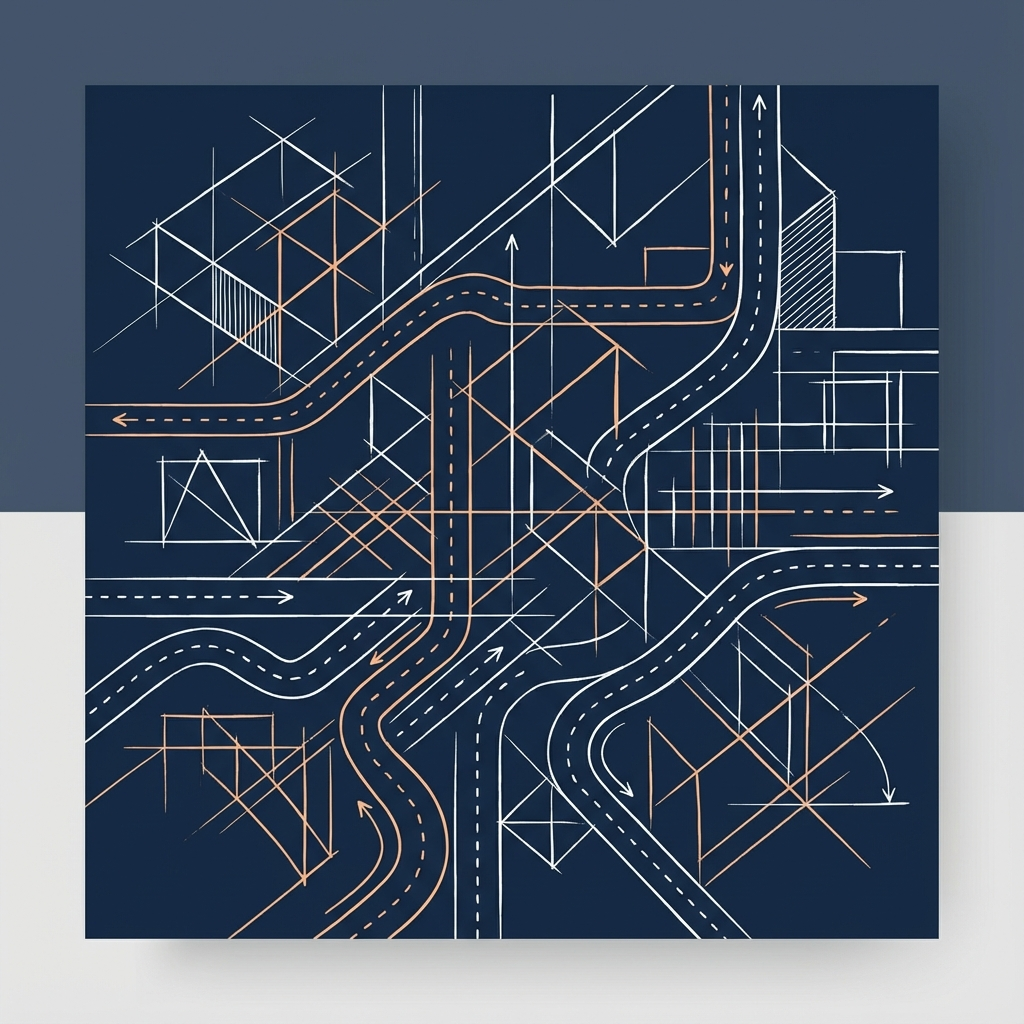
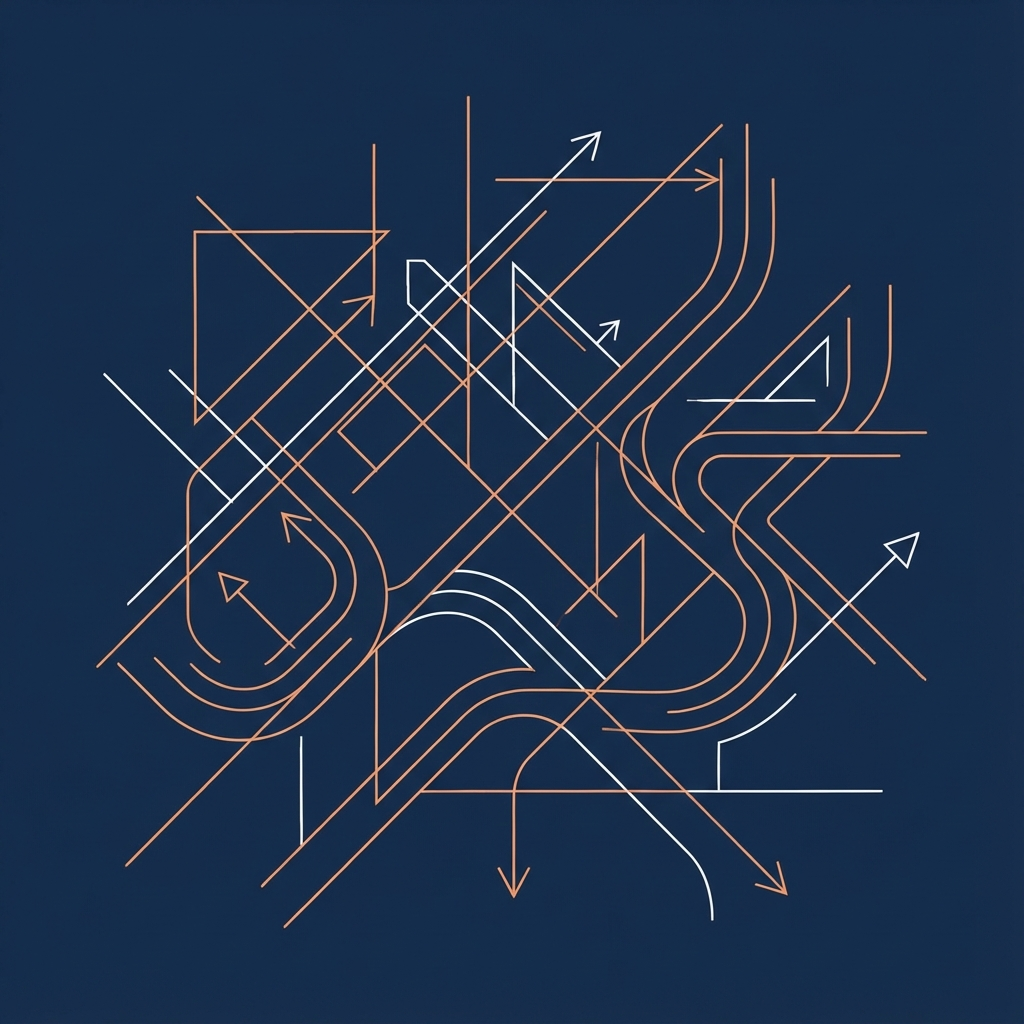
feat: Implement initial Next.js application structure including base layout, global styles, footer, and AreasImpactoSection.

diff --git a/apps/web/src/app/layout.tsx b/apps/web/src/app/layout.tsx
@@ -73,18 +73,20 @@ function Footer() {
             gap: "4rem",
             marginBottom: "4rem",
           }}
-          className="footer-grid" /* Hook for CSS media query if needed, but inline style adjustment is direct */
+          className="footer-grid"
         >
-          <div style={{ minWidth: "280px" }}> {/* Ensure Branding stays full width on very small screens or first col */}
-            <h3 style={{ fontSize: "1.5rem", fontWeight: 700, marginBottom: "1.25rem", fontFamily: "var(--font-serif)" }}>
-              Mauro Mera
-            </h3>
+          <div style={{ minWidth: "280px" }}>
+            <div style={{ display: "flex", alignItems: "center", gap: "1rem", marginBottom: "1.25rem" }}>
+              <img src="/logo.svg" alt="Mauro Mera Logo" style={{ width: "32px", height: "32px" }} />
+              <h3 style={{ fontSize: "1.5rem", fontWeight: 700, fontFamily: "var(--font-serif)", margin: 0 }}>
+                Mauro Mera
+              </h3>
+            </div>
             <p style={{ color: "var(--foreground-muted)", fontSize: "1rem", lineHeight: 1.7, maxWidth: "300px" }}>
               Transformar el mundo empieza por cuidar el mundo interno.
             </p>
           </div>
 
-          {/* Group Links and Legal in a nested grid for mobile compactness */}
           <div style={{ display: "grid", gridTemplateColumns: "1fr 1fr", gap: "2rem", minWidth: "280px" }}>
             <div>
               <h4 style={{ fontWeight: 600, marginBottom: "1.25rem", fontSize: "0.875rem", textTransform: "uppercase", letterSpacing: "0.1em", color: "var(--foreground-muted)" }}>
@@ -121,21 +123,6 @@ function Footer() {
                 </Link>
               </nav>
             </div>
-          </div>
-
-          {/* Disclaimer takes full width in the grid flow or its own col */}
-          <div
-            style={{
-              padding: "1.25rem",
-              background: "rgba(255, 255, 255, 0.03)",
-              borderRadius: "0.75rem",
-              border: "1px solid var(--border)",
-              height: "fit-content"
-            }}
-          >
-            <p style={{ color: "var(--foreground-muted)", fontSize: "0.85rem", lineHeight: 1.6 }}>
-              Si estás en una emergencia o riesgo, busca ayuda inmediata en tu línea local de emergencias.
-            </p>
           </div>
         </div>
 

diff --git a/apps/web/src/app/components/sections/AreasImpactoSection.tsx b/apps/web/src/app/components/sections/AreasImpactoSection.tsx
@@ -72,9 +72,9 @@ export function AreasImpactoSection() {
                 <div
                     style={{
                         display: "grid",
-                        gridTemplateColumns: "repeat(auto-fit, minmax(min(100%, 220px), 1fr))",
+                        gridTemplateColumns: "repeat(auto-fit, minmax(min(100%, 180px), 1fr))",
                         gap: "1.5rem",
-                        maxWidth: "1200px",
+                        maxWidth: "1400px",
                         margin: "0 auto",
                     }}
                 >
@@ -163,6 +163,6 @@ export function AreasImpactoSection() {
                     ))}
                 </div>
             </div>
-        </section>
+        </section >
     );
 }

diff --git a/apps/web/src/app/globals.css b/apps/web/src/app/globals.css
@@ -120,7 +120,7 @@ h6 {
 }
 
 .section {
-  padding: 8rem 0;
+  padding: 4rem 0;
   position: relative;
 }
 